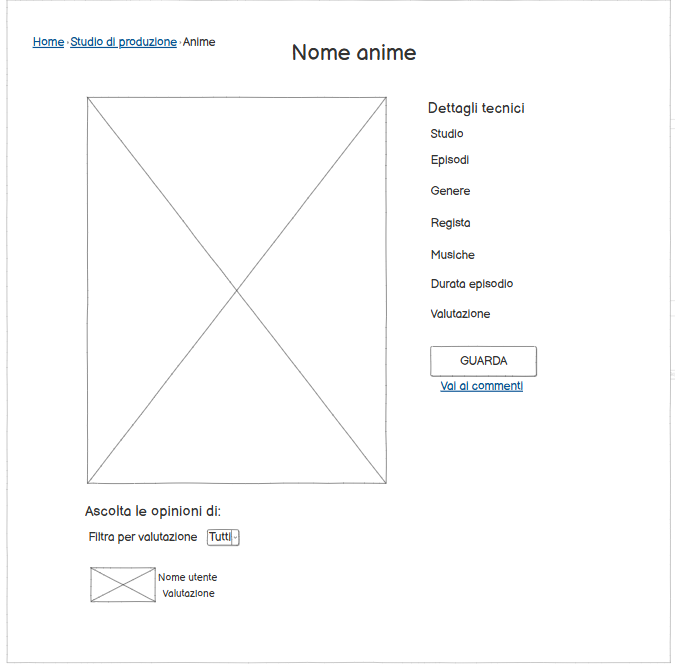
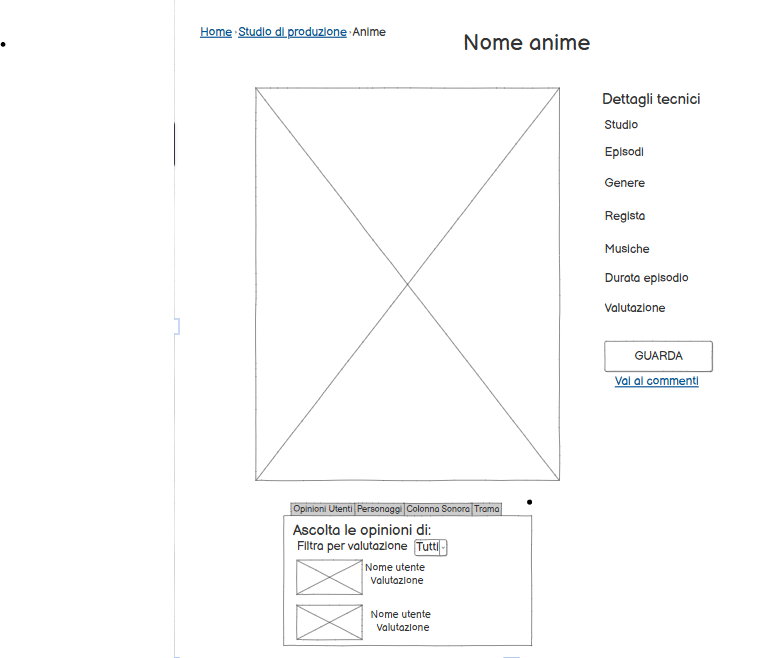
altre modifiche e accortezze di stile e/o errori grammaticali

diff --git a/Documentazione.html b/Documentazione.html
@@ -332,7 +332,7 @@
                         l' anime a cui il commento fa riferimento con il topic di cui si vuole parlare (esempi topic: "news", "finale", "Scontro tra Naruto e Sasuke", "Morte di Ken Kaneki"....)
                         e infine il contenuto testuale.
                     </p>
-                    <img src="mappe/mappacommenti.png" alt="">
+                    <img src="mappe/commentomodale.png" alt="">
                 </div>
                 <div id="item-5-8">
                     <h5 style=" padding:1vh; border-radius: 10px; margin-top: 2vh; margin-bottom: 2vh;"><i>filtra per data</i></h5>
@@ -367,10 +367,11 @@
                         Per quanto riguarda l'architettura, sono stati implementati diversi accorgimenti. 
                     </p>
                     <p>
-                        Titoli riportati in alto e in modo chiaro
-                        Una barra di navigazione appena sotto il titolo sempre visibile.
-                        In caso di mancaza di una vera e propria barra di navigazione è stato riportato un menù dropdown
-                        (avente sempre lo stesso scopo della navigazione semplice) a sinistra del body della nostra pagina
+                        I titoli sono riportati in alto e in modo chiaro con un font più grande rispetto al resto del testo che richiama molto i caratteri giapponesi ('Oswald', sans-serif;).
+                        Mentre per i semplici contenuti testuali è stato adottato un font 'Poppins', sans-serif.
+                        Una barra di navigazione appena sotto il titolo principale sempre visibile, 
+                        in caso di mancaza di quest' ultima è presenteo un menù dropdown (che ha lo stesso scopo della navbar, cioè favorire all' utente la navigazione)
+                        a destra del body della nostra pagina.
                 
                     </p>
 
@@ -393,9 +394,9 @@
                     <p>
                         
                         Per quanto riguarda la scrittura:
-                        <p style="margin-left: 2vw;"> - è stato scelto un font con una leggibilità molto alta e che mantenga uno stile abbastanza professionale</p>
+                        <p style="margin-left: 2vw;"> - è stato scelto un font con una leggibilità molto alta e che mantenga uno stile abbastanza professionale, Poppins', sans-serif, che comunque richiamasse un minimo lo stile dei caratteri giapponesi</p>
                         <p style="margin-left: 2vw;"> - sono stati utilizzati testi semplici e le trame sono state scritte il più breve possibile, senza perdere di interesse</p>
-                        <p style="margin-left: 2vw;"> - le immagini sono chiare e danno un buon contrasto con il nero dello sfondo delle cards e delle sezioni</p>
+                        <p style="margin-left: 2vw;"> - le immagini sono chiare e i loro colori accesi fanno un buon contrasto con il nero dello sfondo delle cards e delle sezioni</p>
                     </p>
                     <p>
                         Siccome le informazioni da veicolare erano tante, si è deciso di ricorrere alla strategia della rivelazione progressiva. 
@@ -421,6 +422,7 @@
                         <p style="margin-left: 2vw;"> - Sono presenti linee del tempo nelle pagine di ogni studio</p>
                         <p style="margin-left: 2vw;"> - E' presenta un sistema di filtraggio degli anime di uno studio in base ad un range temporale</p>
                         <p style="margin-left: 2vw;"> - Sarch bar per filtrare gli anime di uno studio in base al nome</p>
+                        <p style="margin-left: 2vw;"> - Icone cliccabili che rendeo più semplice l' interazione con un commento</p>
                     </p>
                 </div>
                 <div id="item-7-2">
@@ -429,9 +431,10 @@
                         Durante la realizzazione del progetto, sono stati impiegati diversi strumenti 
                         di interazione per garantire un'esperienza coinvolgente agli utenti. 
                         Tra questi, si è fatto largo l' uso di elementi come i bottoni, le card, i dropdown, 
-                        modali con interno degli input di testo, serach bar e navbar. 
+                        modali con interno degli input di testo, tab viewer, serach bar e navbar. 
                         Questi componenti consentono agli utenti di interagire con il sito in modo 
-                        intuitivo e dinamico, possibile anche grazie al fatto che  ogni link cambia forma e/o colore ala passaggio del mouse.
+                        intuitivo e dinamico; caratteristiche rese possibile anche grazie al fatto che ogni link cambia forma e/o colore ala passaggio del mouse o alla presenza
+                        di alcune icone bootsrap cliccabili presenti su ogni commento.
                     </p>
                             Dove si potrebbe migliorare e/o aggiungere funzionalità?
                         <p>

diff --git a/opinioni-commenti.js b/opinioni-commenti.js
@@ -70,7 +70,7 @@ function stampa10(){
 
             // Pulsante "Rispondi"
             let rispondiBtn = document.createElement('span');
-            rispondiBtn.innerHTML = '↩ Rispondi';
+            rispondiBtn.innerHTML = `<i class="bi bi-reply"></i> Rispondi`;
             rispondiBtn.className = 'rispondi';
             rispondiBtn.style.cursor = 'pointer';
             rispondiBtn.addEventListener('click', () => {
@@ -80,7 +80,7 @@ function stampa10(){
 
             // Pulsante "Visualizza risposte"
             let visualizzaRisposteBtn = document.createElement('span');
-            visualizzaRisposteBtn.innerHTML = '⬇ Visualizza risposte';
+            visualizzaRisposteBtn.innerHTML = `<i class="bi-caret-down-fill"></i> Visualizza risposte`;
             visualizzaRisposteBtn.className = 'visualizza-risposte';
             visualizzaRisposteBtn.style.cursor = 'pointer';
             visualizzaRisposteBtn.style.marginLeft = '20px';
@@ -88,6 +88,28 @@ function stampa10(){
                 // Non fare nulla
             });
             azioniDiv.appendChild(visualizzaRisposteBtn);
+
+            // Pulsante "Segnala"
+            let segnalaDiv = document.createElement('div');
+            segnalaDiv.style.display = 'inline-block';
+            segnalaDiv.style.float = 'right';
+
+            let segnalaIcon = document.createElement('span');
+            segnalaIcon.innerHTML = "<i class='bi-x-lg'></i>";
+            segnalaIcon.style.color = 'red';
+            segnalaIcon.style.cursor = 'pointer';
+            segnalaDiv.appendChild(segnalaIcon);
+
+            let segnalaText = document.createElement('span');
+            segnalaText.innerHTML = ' Segnala';
+            segnalaText.style.cursor = 'pointer';
+            segnalaDiv.appendChild(segnalaText);
+
+            segnalaDiv.addEventListener('click', () => {
+                alert('Commento segnalato!');
+            });
+
+            azioniDiv.appendChild(segnalaDiv);
 
             div.appendChild(azioniDiv);
             sezione.appendChild(div);
@@ -152,7 +174,7 @@ function aggiungi(){
 
         // Pulsante "Rispondi"
         let rispondiBtn = document.createElement('span');
-        rispondiBtn.innerHTML = '↩ Rispondi';
+        rispondiBtn.innerHTML = `<i class="bi bi-reply"></i> Rispondi`;
         rispondiBtn.className = 'rispondi';
         rispondiBtn.style.cursor = 'pointer';
         rispondiBtn.addEventListener('click', () => {
@@ -162,7 +184,7 @@ function aggiungi(){
 
         // Pulsante "Visualizza risposte"
         let visualizzaRisposteBtn = document.createElement('span');
-        visualizzaRisposteBtn.innerHTML = '⬇ Visualizza risposte';
+        visualizzaRisposteBtn.innerHTML = `<i class="bi-caret-down-fill"></i> Visualizza risposte`;
         visualizzaRisposteBtn.className = 'visualizza-risposte';
         visualizzaRisposteBtn.style.cursor = 'pointer';
         visualizzaRisposteBtn.setAttribute('style', 'margin-left: 20px;');
@@ -170,6 +192,28 @@ function aggiungi(){
             // Non fare nulla
         });
         azioniDiv.appendChild(visualizzaRisposteBtn);
+
+        // Pulsante "Segnala"
+        let segnalaDiv = document.createElement('div');
+        segnalaDiv.style.display = 'inline-block';
+        segnalaDiv.style.float = 'right';
+
+        let segnalaIcon = document.createElement('span');
+        segnalaIcon.innerHTML = "<i class='bi-x-lg'></i>";
+        segnalaIcon.style.color = 'red';
+        segnalaIcon.style.cursor = 'pointer';
+        segnalaDiv.appendChild(segnalaIcon);
+
+        let segnalaText = document.createElement('span');
+        segnalaText.innerHTML = ' Segnala';
+        segnalaText.style.cursor = 'pointer';
+        segnalaDiv.appendChild(segnalaText);
+
+        segnalaDiv.addEventListener('click', () => {
+            alert('Commento segnalato!');
+        });
+
+        azioniDiv.appendChild(segnalaDiv);
 
         div.appendChild(azioniDiv);
         sezione.appendChild(div);

diff --git a/index.html b/index.html
@@ -18,7 +18,7 @@
     <meta name="DC.type" content="Catalogo interattivo">
     <meta name="DC.language" content="it">
     
-    <title>Pagina Base</title>
+    <title>Tokyo Community</title>
 </head>
 <body>
     <div>
@@ -27,10 +27,10 @@
             <nav class="navbar bg-body-tertiary" style="padding-right: 25px; padding-left: 25px;">
                 <div class="container">
                     <a href="#chiSiamo" class="navbar-brand">Chi Siamo</a>
-                    <a href="#studio-ghibli" class="navbar-brand">Studio Ghibli</a>
-                    <a href="#mappa" class="navbar-brand">Mappa</a>
-                    <a href="#toei-animation" class="navbar-brand">Toei Animation</a>
-                    <a href="#pierrot" class="navbar-brand">Pierrot</a>
+                    <a href="StudioGhilbi.html">Studio Ghibli</a>
+                    <a href="Mappa.html" class="navbar-brand">Mappa</a>
+                    <a href="ToeiAnimation.html" class="navbar-brand">Toei Animation</a>
+                    <a href="Pierrot.html" class="navbar-brand">Pierrot</a>
                     <a href="opinioni-commenti.html" class="navbar-brand">Opinioni e commenti</a>
                     <a href="Documentazione.html" class="navbar-brand">Wen Project Plan</a>
                 </div>

diff --git a/opinioni-commenti.html b/opinioni-commenti.html
@@ -9,6 +9,7 @@
     <script src="opinioni-commenti.js"></script>
     <link rel="stylesheet" href="bootstrap-5.3.3-dist/bootstrap-5.3.3-dist/css/bootstrap.css">
     <script src="bootstrap-5.3.3-dist/bootstrap-5.3.3-dist/js/bootstrap.js"></script>
+    <link rel="stylesheet" href="https://cdn.jsdelivr.net/npm/bootstrap-icons/font/bootstrap-icons.css">
     <link rel="stylesheet" href="https://cdnjs.cloudflare.com/ajax/libs/font-awesome/6.4.2/css/all.min.css">
     <!--Metadati dublic core-->
     <meta name="DC.title" content="Discussione sulle Scene più Iconiche degli Anime">
@@ -19,6 +20,7 @@
     <meta name="DC.type" content="Forum / Discussione">
     <meta name="DC.format" content="text/html">
     <meta name="DC.language" content="it">
+
 </head>
 <body>
     <a href="index.html" id="home">&lt; Home</a>

diff --git a/studio.css b/studio.css
@@ -1,3 +1,5 @@
+@import url('https://fonts.googleapis.com/css2?family=Oswald:wght@300;400;600&family=Poppins:wght@300;400;600&display=swap');
+
 *{
     margin:0;
     padding:0;
@@ -16,18 +18,13 @@ body {
     text-align: center;
     position:relative;
     padding-top: 30px;
+    font-family: 'Poppins', sans-serif ;
     
 }
-/* body a{
-    text-decoration: none;
-    color: #ffffff ;
+h1, h2, h3, h4, h5, h6{
+  font-family: 'Oswald', sans-serif !important;
 }
-a:hover{
-    text-decoration: none;
-    transform: scale(1.25);
-    color: #ffffff;
-    transition: transform 0.2s;
-} */
+
 a{
     text-decoration: none !important;
     color: #fff !important;

diff --git a/documentazione.css b/documentazione.css
@@ -1,3 +1,5 @@
+@import url('https://fonts.googleapis.com/css2?family=Oswald:wght@300;400;600&family=Poppins:wght@300;400;600&display=swap');
+
 *{
     margin: 0;
     padding: 0;
@@ -18,10 +20,18 @@ body{
     text-align: center;
     position: relative;
     color: white !important;
+    font-family: 'Poppins', sans-serif ;
+}
+h1, h2, h3, h4, h5, h6{
+    font-family: 'Oswald', sans-serif !important;
 }
 h1{
     margin-top:40px !important;
     font-size:40px;
+}
+h2{
+    margin-top:40px !important;
+    font-size: 40px !important;
 }
 h5{
     background-color: rgb(117, 221, 229) !important;

diff --git a/item.css b/item.css
@@ -1,3 +1,9 @@
+@import url('https://fonts.googleapis.com/css2?family=Oswald:wght@300;400;600&family=Poppins:wght@300;400;600&display=swap');
+* {
+    margin: 0;
+    padding: 0;
+    box-sizing: border-box;
+}
 body {
     background-color: black;
     color: white;
@@ -5,6 +11,10 @@ body {
     margin: 0;
     padding: 0;
     box-sizing: border-box;
+    font-family: 'Poppins', sans-serif ;
+}
+h1, h2, h3, h4, h5, h6{
+    font-family: 'Oswald', sans-serif !important;
 }
 .container {
     width: 80%;

diff --git a/opinioni-commenti.css b/opinioni-commenti.css
@@ -1,3 +1,5 @@
+@import url('https://fonts.googleapis.com/css2?family=Oswald:wght@300;400;600&family=Poppins:wght@300;400;600&display=swap');
+
 *{
     margin: 0;
     padding: 0;
@@ -18,6 +20,10 @@ body{
     text-align: center;
     position: relative;
     color: white !important;
+    font-family: 'Poppins', sans-serif ;
+}
+h1, h2, h3, h4, h5, h6{
+    font-family: 'Oswald', sans-serif !important;
 }
 #home, #top{
     text-decoration: none !important;

diff --git a/home.css b/home.css
@@ -1,3 +1,5 @@
+@import url('https://fonts.googleapis.com/css2?family=Oswald:wght@300;400;600&family=Poppins:wght@300;400;600&display=swap');
+
 *{
     margin:0;
     padding:0;
@@ -12,6 +14,10 @@ body {
     overflow: auto;
     background-color: black !important; 
     text-align: center;
+    font-family: 'Poppins', sans-serif ;
+}
+h1, h2, h3, h4, h5, h6{
+    font-family: 'Oswald', sans-serif !important;
 }
 a{
     text-decoration: none !important;

diff --git a/item.html b/item.html
@@ -8,6 +8,7 @@
     <script src="bootstrap-5.3.3-dist/bootstrap-5.3.3-dist/js/bootstrap.js"></script>
     <link rel="stylesheet" href="https://cdnjs.cloudflare.com/ajax/libs/font-awesome/6.4.2/css/all.min.css">
     <link rel="stylesheet" href="item.css">
+
 </head>
 <body>
     <div class="container">

diff --git a/StudioGhilbi.html b/StudioGhilbi.html
@@ -14,6 +14,8 @@
       <meta name="DC.date" content="2025-03-16">
       <meta name="DC.type" content="Sito Web">
       <meta name="DC.language" content="it">
+
+    <title>Studio Pierrot</title>
 </head>
 <body>
     <div class="dropdown"><!--indici per parole chiavi-->

diff --git a/Pierrot.html b/Pierrot.html
@@ -14,6 +14,8 @@
     <meta name="DC.date" content="2025-03-16">
     <meta name="DC.type" content="Sito Web">
     <meta name="DC.language" content="it">
+
+    <title>Pierrot Studio</title>
 </head>
 <body>
     <div class="dropdown"><!--indici per parole chiavi-->
